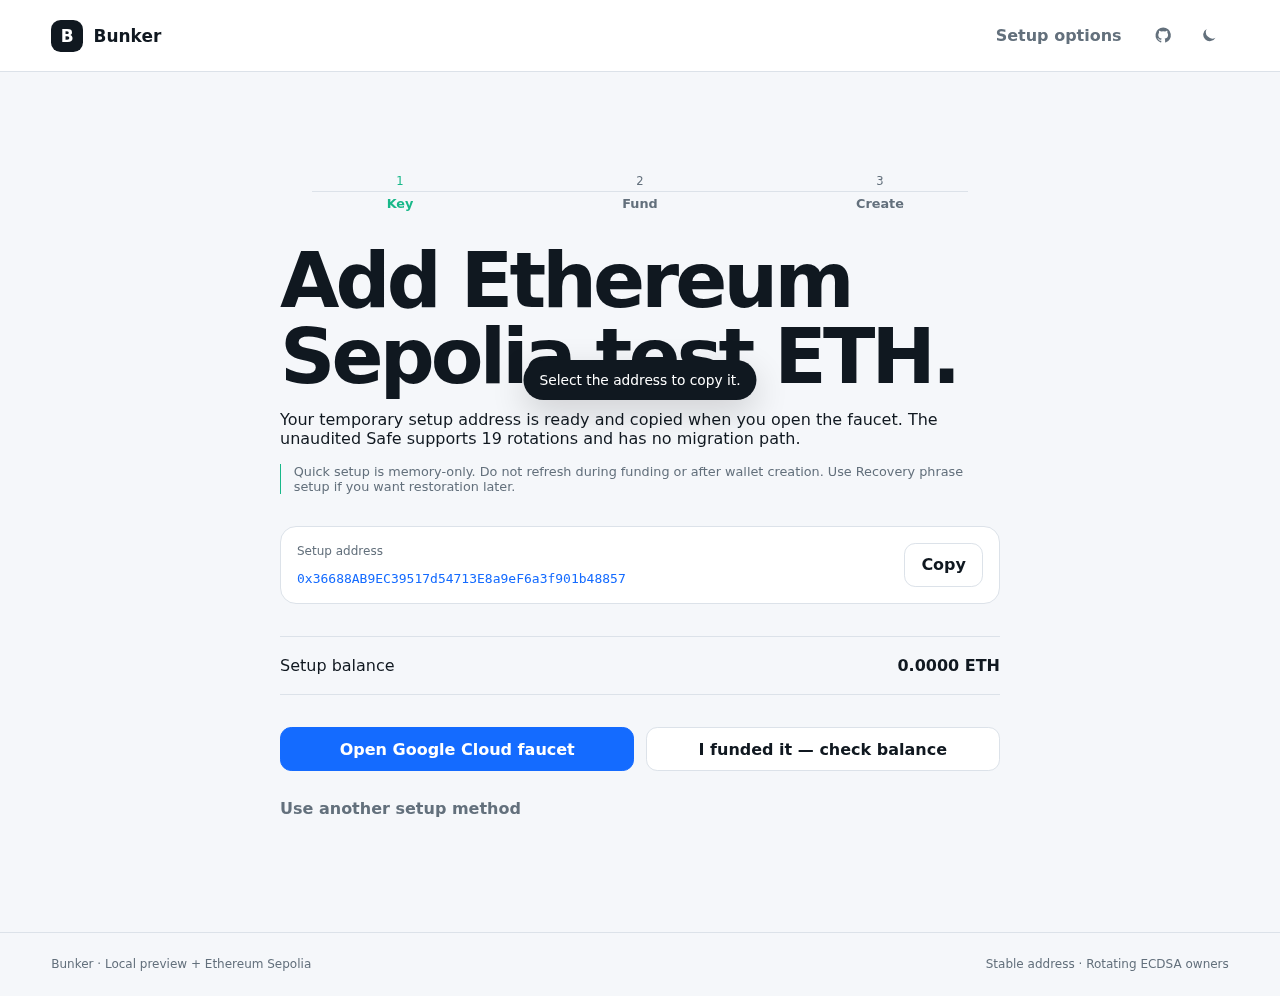
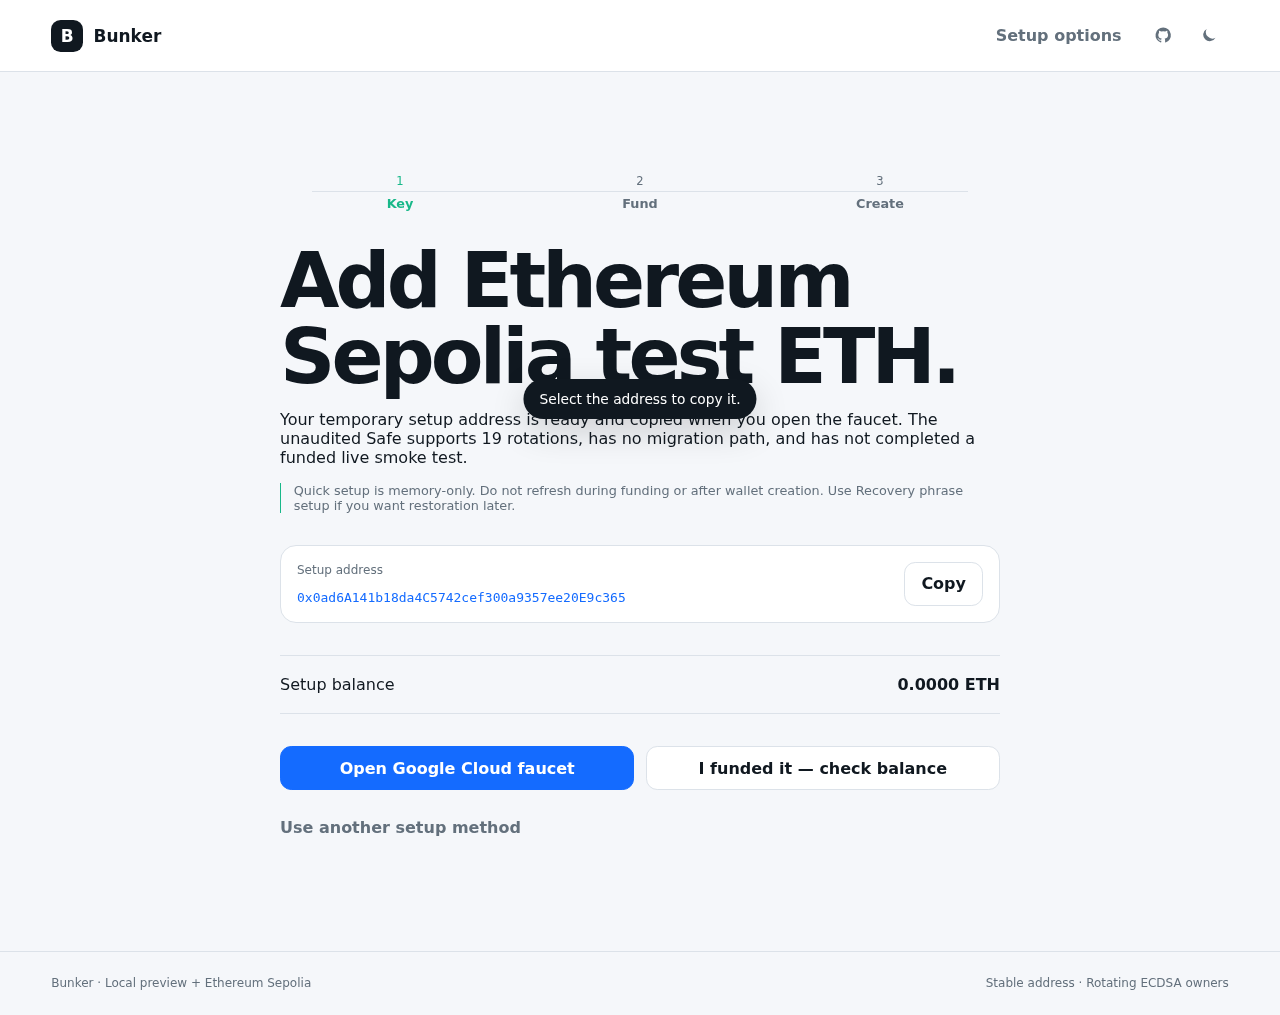
Disclose pending live Safe smoke

diff --git a/apps/web/src/App.tsx b/apps/web/src/App.tsx
@@ -36,9 +36,9 @@ export default function App(){
  return <div class={`site ${theme()}`}><header class="top"><button class="brand" onClick={()=>go(walletAddress()?"wallet":"landing")}><span>B</span>Bunker</button><nav><Show when={walletAddress()}><button onClick={()=>go("wallet")}>Wallet</button></Show><button onClick={()=>go("advanced")}>Setup options</button><a class="nav-icon" href="https://github.com/SilentCicero/bunker-wallet" target="_blank" rel="noreferrer" aria-label="View Bunker on GitHub"><NavIcon name="github"/></a><button class="nav-icon" aria-label={theme()==="light"?"Use dark mode":"Use light mode"} title={theme()==="light"?"Use dark mode":"Use light mode"} onClick={()=>setTheme(theme()==="light"?"dark":"light")}><NavIcon name={theme()==="light"?"moon":"sun"}/></button><Show when={walletAddress()}><button class="nav-exit" onClick={exit}>Exit</button></Show></nav></header><Show when={notice()}><div class="toast" role="status">{notice()}</div></Show>
  <main>
  <Show when={view()==="landing"}><section class="hero-new"><div class="hero-copy"><h1>One address.<br/>Fresh keys.</h1><p>Keep one familiar Ethereum address while Bunker rotates the signing owner after every action—<strong>reducing exposure to future quantum attacks.</strong></p><div class="hero-actions"><button class="primary" onClick={begin}>Try it</button><button class="button-link" onClick={beginSepolia}>Experimental Safe on Sepolia</button></div></div><div class="mechanism" aria-label="Stable Safe address with rotating owner keys"><div class="address-head"><span>YOUR WALLET ADDRESS</span><b>Stays the same</b></div><code>0x71A4…92F0</code><div class="key-track"><div class="key spent"><Icon/><span>Key 08</span><small>Used</small></div><i>→</i><div class="key active"><Icon/><span>Key 09</span><small>Active</small></div><i>→</i><div class="key next"><Icon/><span>Key 10</span><small>Next</small></div></div><div class="action-line"><span>Send ETH</span><b>Signer advances</b></div></div></section><div class="trust-line"><span>Standard ECDSA</span><span>MIT open source</span><span>Safe under the hood</span></div><section class="external-post"><div class="post-context"><span>External perspective</span><h2>A call to plan for “bunker mode.”</h2><p>This post loads from X and is included for discussion, not as a Bunker security assessment. Bunker does not endorse predictions about ECDSA-break timing or causes.</p></div><div class="post-embed"><blockquote class="twitter-tweet" data-dnt="true"><a href="https://x.com/drakefjustin/status/2107837081313505768">Read the post by Justin Drake on X</a></blockquote><a class="post-link" href="https://x.com/drakefjustin/status/2107837081313505768" target="_blank" rel="noreferrer">Open directly on X →</a></div></section><section class="why" id="how-it-works"><div class="why-head"><span>Why Bunker?</span><h2>Rotate the keys.<br/>Keep the wallet.</h2></div><div class="why-list"><article><b>01</b><div><h3>One address</h3><p>Receive assets and build history without changing your wallet identity.</p></div></article><article><b>02</b><div><h3>Atomic rotation</h3><p>A supported action and the move to its next owner succeed together.</p></div></article><article><b>03</b><div><h3>Your keys, your control</h3><p>Quick keys stay in memory. Recovery setup stays local and can be encrypted.</p></div></article><article><b>04</b><div><h3>Familiar Ethereum</h3><p>Standard ECDSA and open-source contracts. No new chain or experimental cryptography.</p></div></article></div></section><section class="flow"><span>How it works</span><h2>One wallet. Fresh keys.<br/>Every action.</h2><ol><li><b>Create</b><small>Make a browser key.</small></li><li><b>Fund</b><small>Skipped in local mode.</small></li><li><b>Deploy</b><small>Get one wallet address.</small></li><li><b>Use</b><small>Act and rotate atomically.</small></li></ol></section><section class="roadmap"><div><span>The important distinction</span><h2>Reduce quantum-<br/>attack exposure.</h2></div><p>Bunker still uses standard ECDSA. Rotation reduces how long an exposed owner remains useful; it does not make Ethereum post-quantum secure.</p><div class="roadmap-links"><button class="primary" onClick={begin}>Try it</button><a href="https://github.com/SilentCicero/bunker-wallet" target="_blank" rel="noreferrer">View the source →</a></div><small>Ledger, Trezor, and offline signing remain planned and audit-gated.</small></section></Show>
- <Show when={view()==="setup"}><section class="setup"><div class="stepper"><span class="done">1 <b>Key</b></span><span classList={{done:mode()==="local"||setupBalance()>=parseEther("0.03")}}>2 <b>{mode()==="local"?"Ready":"Fund"}</b></span><span classList={{done:Boolean(walletAddress())}}>3 <b>Create</b></span></div><h1>{mode()==="local"?"Your local preview is ready.":setupBalance()>=parseEther("0.03")?"Create your Safe wallet.":"Add Ethereum Sepolia test ETH."}</h1><p>{mode()==="local"?"No faucet, wallet connection, or blockchain transaction. Everything stays in this tab.":setupBalance()>=parseEther("0.03")?"Your setup key is funded. Create the guarded Safe and move the test ETH into its permanent address.":"Your temporary setup address is ready and copied when you open the faucet. The unaudited Safe supports 19 rotations and has no migration path."}</p><Show when={!recoverable()}><p class="ephemeral-note">Quick setup is memory-only. Do not refresh during funding or after wallet creation. Use Recovery phrase setup if you want restoration later.</p></Show><div class="setup-address"><span>Setup address</span><code>{setupAddress()}</code><button onClick={()=>copy(setupAddress())}>Copy</button></div><div class="balance-row"><span>{mode()==="local"?"Preview balance":"Setup balance"}</span><strong>{Number(formatEther(setupBalance())).toFixed(4)} ETH</strong></div><Show when={mode()==="local"||setupBalance()>=parseEther("0.03")} fallback={<div class="setup-actions"><button class="primary" onClick={openFaucet}>Open Google Cloud faucet</button><button onClick={checkFunding} disabled={Boolean(busy())}>{busy()||"I funded it — check balance"}</button></div>}><button class="primary wide" onClick={createStableWallet} disabled={Boolean(busy())}>{busy()||"Create guarded Safe"}</button></Show><button class="text-button" onClick={()=>go("advanced")}>Use another setup method</button></section></Show>
+ <Show when={view()==="setup"}><section class="setup"><div class="stepper"><span class="done">1 <b>Key</b></span><span classList={{done:mode()==="local"||setupBalance()>=parseEther("0.03")}}>2 <b>{mode()==="local"?"Ready":"Fund"}</b></span><span classList={{done:Boolean(walletAddress())}}>3 <b>Create</b></span></div><h1>{mode()==="local"?"Your local preview is ready.":setupBalance()>=parseEther("0.03")?"Create your Safe wallet.":"Add Ethereum Sepolia test ETH."}</h1><p>{mode()==="local"?"No faucet, wallet connection, or blockchain transaction. Everything stays in this tab.":setupBalance()>=parseEther("0.03")?"Your setup key is funded. Create the guarded Safe and move the test ETH into its permanent address.":"Your temporary setup address is ready and copied when you open the faucet. The unaudited Safe supports 19 rotations, has no migration path, and has not completed a funded live smoke test."}</p><Show when={!recoverable()}><p class="ephemeral-note">Quick setup is memory-only. Do not refresh during funding or after wallet creation. Use Recovery phrase setup if you want restoration later.</p></Show><div class="setup-address"><span>Setup address</span><code>{setupAddress()}</code><button onClick={()=>copy(setupAddress())}>Copy</button></div><div class="balance-row"><span>{mode()==="local"?"Preview balance":"Setup balance"}</span><strong>{Number(formatEther(setupBalance())).toFixed(4)} ETH</strong></div><Show when={mode()==="local"||setupBalance()>=parseEther("0.03")} fallback={<div class="setup-actions"><button class="primary" onClick={openFaucet}>Open Google Cloud faucet</button><button onClick={checkFunding} disabled={Boolean(busy())}>{busy()||"I funded it — check balance"}</button></div>}><button class="primary wide" onClick={createStableWallet} disabled={Boolean(busy())}>{busy()||"Create guarded Safe"}</button></Show><button class="text-button" onClick={()=>go("advanced")}>Use another setup method</button></section></Show>
  <Show when={view()==="wallet"&&walletAddress()}><section class="wallet"><div class="wallet-top"><div><span class="status-dot">{mode()==="local"?"Local preview · simulated, not broadcast":"Ethereum Sepolia Safe · live"}</span><h1>{Number(formatEther(walletBalance())).toFixed(4)} ETH</h1></div><div class="rotation-card"><span>OWNER ROTATION</span><strong>Key {rotation()+1}</strong><p>Active underneath your stable address</p><div><i style={{width:`${Math.min(100,(rotation()+1)*8)}%`}}/></div></div></div><div class="stable"><span>Stable Safe address</span><button class="stable-copy" aria-label="Copy stable Safe address" onClick={()=>copy(walletAddress())}><code>{walletAddress()}</code><span>Copy</span></button><b>Does not change</b></div><Show when={mode()==="local"}><section class="signer-sequence"><div><span>Preview signing sequence</span><small>Simulated locally · wallet address stays fixed</small></div><div class="signer-steps"><div><small>Last signer</small><code>{activity()[0]?.usedSigner?short(activity()[0]?.usedSigner!):"—"}</code></div><i>→</i><div class="current"><small>Active signer · Key {rotation()+1}</small><code>{owner()&&short(owner()!)}</code></div><i>→</i><div><small>Next signer · Key {rotation()+2}</small><code>{nextSigner()&&short(nextSigner()!)}</code></div></div></section></Show><div class="wallet-grid"><section class="actions-panel"><h2>Send ETH</h2><label>Recipient<input ref={to} value={mode()==="local"?"justindrake.eth":""} placeholder={mode()==="local"?"justindrake.eth":"0x…"}/></label><label>Amount<input ref={amount} value={mode()==="local"?"0.001":""} inputmode="decimal" placeholder="0.001"/></label><button class="primary wide" onClick={runETH} disabled={Boolean(busy())||(mode()==="sepolia"&&rotation()>=19)}>{busy()||(mode()==="sepolia"&&rotation()>=19?"Sequence exhausted":"Send + rotate key")}</button></section><aside class="activity"><h2>Signing rotation history</h2><p class="history-intro">Your wallet address stays fixed. Each action advances the signer.</p><For each={activity()}>{item=><div class="activity-row"><span>{item.index===rotation()?"Latest":"Done"}</span><p><b>{item.label}</b><small>{item.usedSigner?`Key ${item.index} → Key ${item.index+1}`:`Key ${item.index+1} active`}</small><Show when={item.usedSigner}><code>Used signer · {short(item.usedSigner!)}</code></Show></p>{item.hash?<a href={`https://sepolia.etherscan.io/tx/${item.hash}`} target="_blank" rel="noreferrer">View</a>:<small>Preview</small>}</div>}</For></aside></div></section></Show>
- <Show when={view()==="advanced"}><section class="advanced"><button class="back" onClick={()=>go("landing")}>← Back</button><h1>Choose how to protect the setup key.</h1><p>Each method creates a stable Safe address with automatic owner rotation.</p><div class="option-list"><button onClick={beginSepolia}><span>Experimental Safe on Sepolia</span><small>Unaudited · 19 rotations · no migration path</small><b>Use testnet</b></button><button onClick={createPhrase}><span>Recovery phrase</span><small>24 words · optional check and password</small><b>Set up</b></button><button onClick={()=>{setMode("sepolia");go("load")}}><span>Load existing wallet</span><small>Encrypted vault or 24 words</small><b>Load</b></button><button disabled><span>Ledger</span><small>Hardware setup · compatibility verification in progress</small><b>Soon</b></button><button disabled><span>Trezor</span><small>Hardware setup · compatibility verification in progress</small><b>Soon</b></button><button disabled><span>EVM wallet</span><small>Manual next-key proof required</small><b>Soon</b></button></div></section></Show>
+ <Show when={view()==="advanced"}><section class="advanced"><button class="back" onClick={()=>go("landing")}>← Back</button><h1>Choose how to protect the setup key.</h1><p>Each method creates a stable Safe address with automatic owner rotation.</p><div class="option-list"><button onClick={beginSepolia}><span>Experimental Safe on Sepolia</span><small>Unaudited · not live-smoke-tested · 19 rotations</small><b>Use testnet</b></button><button onClick={createPhrase}><span>Recovery phrase</span><small>24 words · optional check and password</small><b>Set up</b></button><button onClick={()=>{setMode("sepolia");go("load")}}><span>Load existing wallet</span><small>Encrypted vault or 24 words</small><b>Load</b></button><button disabled><span>Ledger</span><small>Hardware setup · compatibility verification in progress</small><b>Soon</b></button><button disabled><span>Trezor</span><small>Hardware setup · compatibility verification in progress</small><b>Soon</b></button><button disabled><span>EVM wallet</span><small>Manual next-key proof required</small><b>Soon</b></button></div></section></Show>
  <Show when={view()==="phrase"}><section class="secure"><span class="status-dot">Secure setup</span><h1>Write down these 24 words.</h1><p>Keep them offline. They recover every owner key in sequence.</p><ol class="words" ref={phraseList}/><label class="check"><input type="checkbox" checked={confirmed()} onChange={e=>setConfirmed(e.currentTarget.checked)}/> I saved the phrase offline.</label><div class="secure-actions"><button class="primary" disabled={!confirmed()} onClick={()=>go("confirm")}>Check my backup</button><button disabled={!confirmed()} onClick={()=>go("vault")}>Skip check</button></div></section></Show>
  <Show when={view()==="confirm"}><section class="secure"><h1>Quick recovery check.</h1><p>Enter words 3, 9, and 18.</p><div class="confirm"><For each={[3,9,18]}>{(n,i)=><label>Word {n}<input ref={el=>confirmInputs[i()]=el}/></label>}</For></div><button class="primary" onClick={verifyWords}>Continue</button></section></Show>
  <Show when={view()==="vault"}><section class="secure"><h1>Add a password?</h1><p>Optional. A password encrypts the recovery phrase on this device.</p><label>Password · 12 characters minimum<input ref={password} type="password" autocomplete="new-password"/></label><div class="secure-actions"><button class="primary" onClick={()=>finishSecure(true)}>Encrypt and continue</button><button onClick={()=>finishSecure(false)}>Continue without saving</button></div></section></Show>
